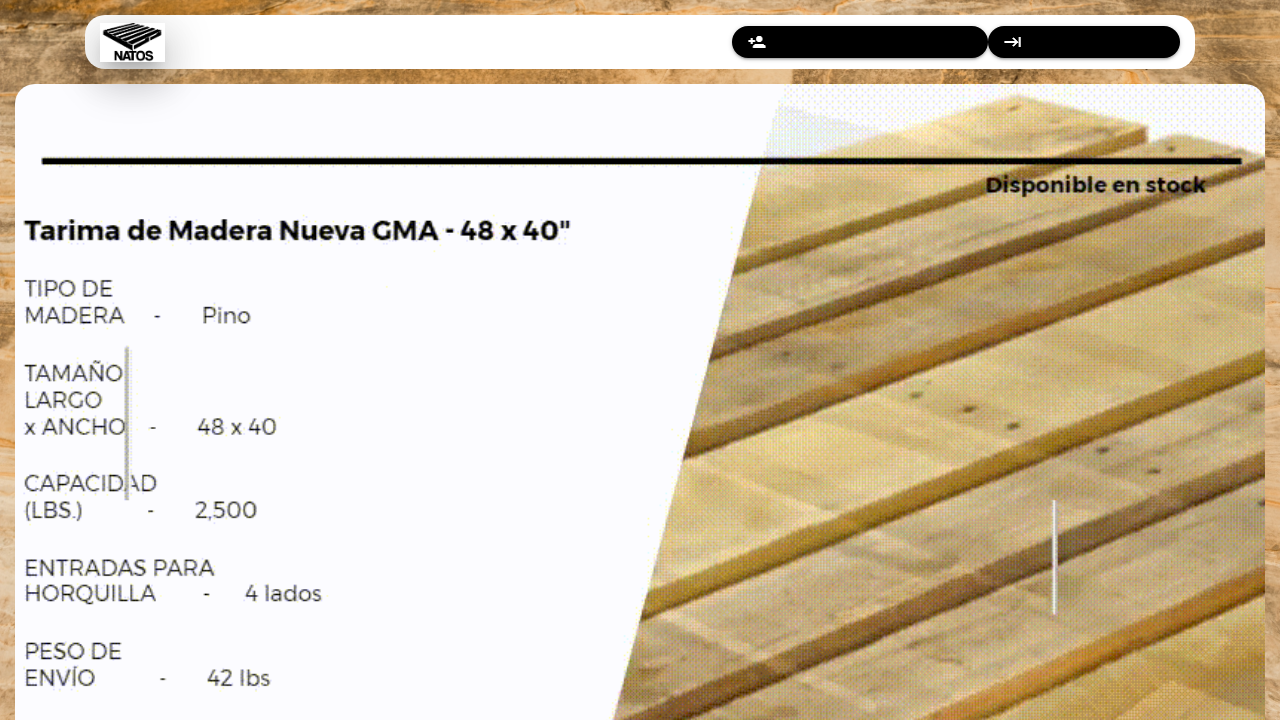
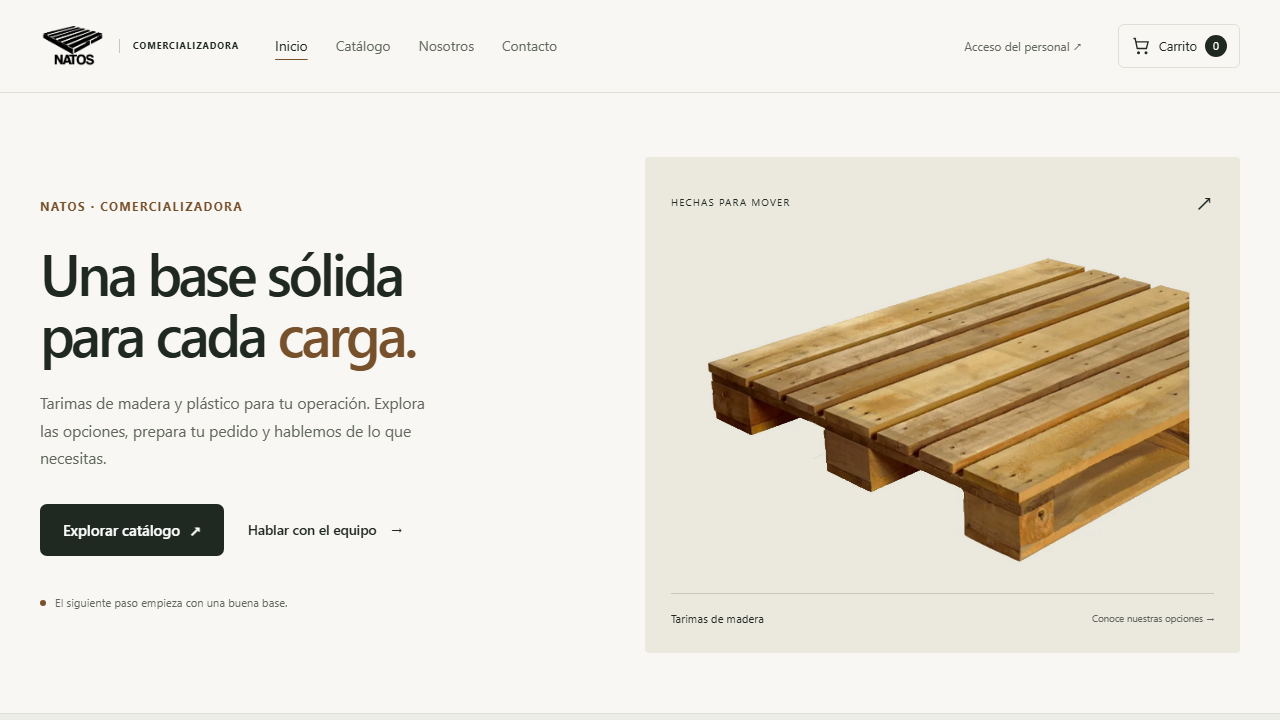
fix(projects): update NATOS and Pracofi screenshots for v2 redesigns (#23)

diff --git a/src/assets/projects/README.md b/src/assets/projects/README.md
@@ -6,7 +6,7 @@ The current public-page screenshots were captured on September 27, 2026; the Esp
 - `tramites-digitales-2022.png`: Original public homepage screenshot extracted from page 26 of the author's 2022 tesina. This second gallery image shows the historical interface, separately captioned from the current homepage.
 - `espacios-escenicos.png`: Archive screenshot from 2022 showing cultural event listings for Jalisco performing arts venues. React frontend and Node.js backend work were confirmed by the author. Only the current public website is linked.
 - `pbh-abogados.png`: <https://app.pbhabogados.com/>, current public homepage. Contribution period: January–August 2021, Sharptech. The existing CV documents React frontend leadership, Stripe payments and Nodemailer email workflows. The current site footer credits CILABS; the portfolio describes the author's contribution through Sharptech, not exclusive ownership or ongoing maintenance.
-- `pracofi.png`: <https://donatoalvarez.dev/pracofi/>, public interface screenshot captured September 2026. React and Vite application for accounting and tax advisory management, with source at <https://github.com/DonytXz/pracofi>.
-- `natos.png`: <https://donatoalvarez.dev/NATOS/>, public interface screenshot captured September 2026. Commercial lumber and pallet commerce application migrated to Angular 22, with source at <https://github.com/DonytXz/NATOS>.
+- `pracofi.png`: <https://donatoalvarez.dev/pracofi/>, public interface screenshot updated October 2026 reflecting the web app v2 redesign. React and Vite application for accounting and tax advisory management, with source at <https://github.com/DonytXz/pracofi>.
+- `natos.png`: <https://donatoalvarez.dev/NATOS/>, public interface screenshot updated October 2026 reflecting the web app v2 redesign. Commercial lumber and pallet commerce application migrated to Angular 22, with source at <https://github.com/DonytXz/NATOS>.
 
 Dates have been omitted across all portfolio project displays per author instructions. No private account, payment, or client data was accessed to capture these images.
